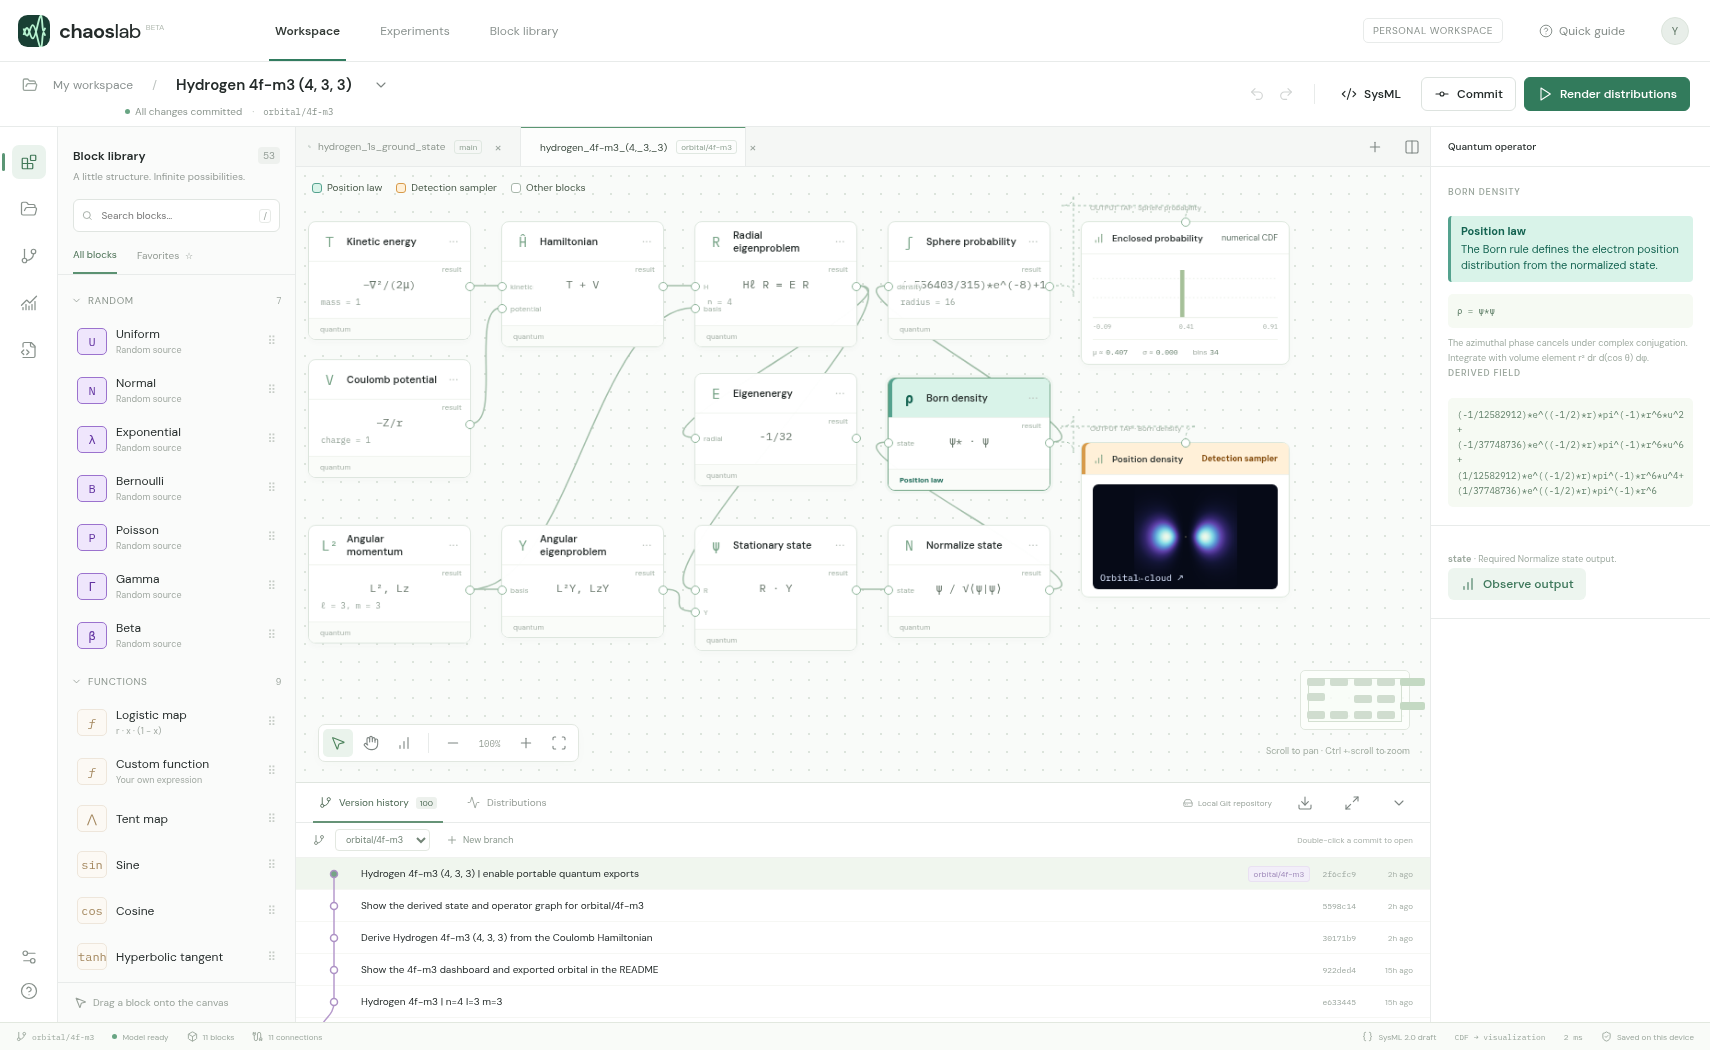
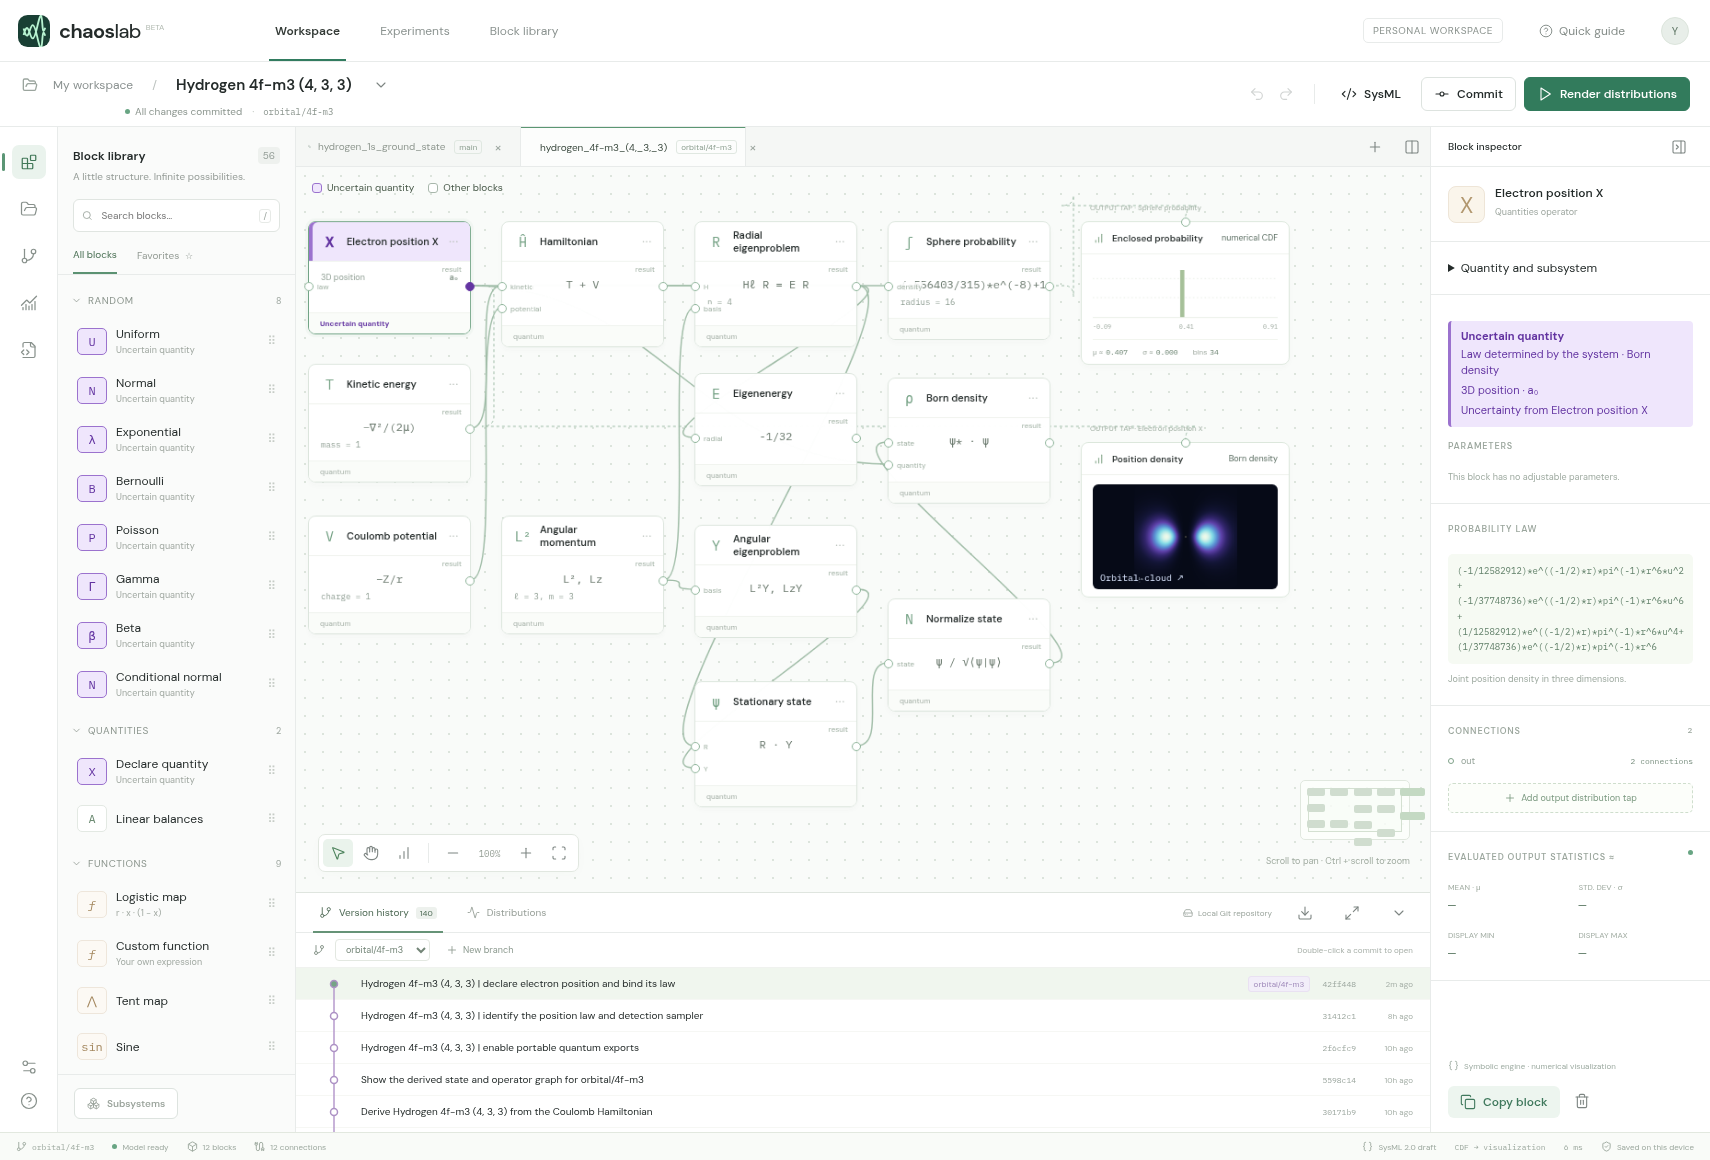
Show the position declaration and its law provider for orbital/4f-m3

diff --git a/studio.py b/studio.py
@@ -10,7 +10,7 @@ import tempfile
 import webbrowser
 
 ROOT = Path(__file__).resolve().parent
-STUDIO_REV = "5cbb600c6ee5baa24d159ddc6c974d68eb68f653"
+STUDIO_REV = "515ba96842af71b90f41019a508548a96e802665"
 STUDIO_REPO = "https://github.com/wa200508/chaos_lab.git"
 
 

diff --git a/README.md b/README.md
@@ -6,7 +6,7 @@ Open **Version history** in Chaos Lab to explore the 20 hydrogen designs in this
 
 The connected Hamiltonian and eigenstate solvers give $E=-1/32$ Hartree for this state.
 
-The purple **Electron position X** block declares the three-dimensional quantity in Bohr radii. Open its inspector to see **Born density** as its law provider. The sphere measurement and spatial tap both observe X. Projected detections draw from the final law; the central slice evaluates the density directly.
+The purple **Electron position X** block declares the three-dimensional quantity in Bohr radii. Open its inspector to see **Born density** as its law provider. The sphere measurement and spatial tap both observe X. Projected detections draw from the final law. The central slice evaluates the density directly.
 
 ![Chaos Lab dashboard with the 4f model, m = 3, open in version history](dashboard.png)
 
